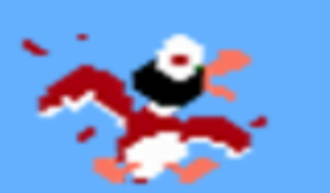
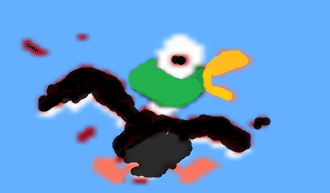
Added variation of birds with different images and penalties

Changed region(s): [[0.0909, 0.2487, 0.8182, 0.9326], [0.5152, 0.2798, 0.5758, 0.342], [0.0909, 0.2487, 0.1212, 0.2798]]

diff --git a/js/app.js b/js/app.js
@@ -58,6 +58,21 @@ const playBtn = document.querySelector(".play")
 const resultSpan = document.querySelector("#result")
 /*-------------- Functions -------------*/
 
+const getRandom = (items) => {
+    let total = items.reduce((sum, item) => {
+        return sum + item.weight
+    }, 0)
+
+    let roll = Math.random() * total;
+    for (const item of items) {
+        if (roll < item.weight) return item
+
+        roll -= item.weight
+    }
+}
+
+
+
 const renderTimer = () => {
     game.timer -= 1000;
     render();
@@ -67,6 +82,11 @@ const renderTimer = () => {
     }
 }
 const createBird = () => {
+    types = [
+        { name: "duck", flap1: "/assets/duckEnemy-1.png", flap2: "/assets/duckEnemy-2.png", weight: 70 },
+        { name: "crow", flap1: "/assets/crowChill-1.png", flap2: "/assets/crowChill-2.png", penalty: 2000, weight: 20 },
+        { name: "eagle", flap1: "/assets/eagleChill-1.png", flap2: "/assets/eagleChill-2.png", penalty: 10000, weight: 10 },
+    ]
     const bird = {
         x: game.element.clientWidth,
         y: Math.random() * (game.element.clientHeight - 90),
@@ -74,19 +94,22 @@ const createBird = () => {
         child: document.createElement('img'),
         speed: 2,
         state: 1,
+        type: getRandom(types),
         flap() {
             if (this.state === 1) {
                 this.state = 2
-                this.child.src = "/assets/duckEnemy-2.png"
+                this.child.src = this.type.flap1
             }
             else {
                 this.state = 1
-                this.child.src = "/assets/duckEnemy-1.png"
+                this.child.src = this.type.flap2
             }
         }
 
     }
-    bird.child.src = "/assets/duckEnemy-1.png"
+    bird.element.bird = bird
+    console.log(bird.type.name)
+    bird.child.src = bird.flap1
     bird.child.classList.add("bird")
 
     bird.element.classList.add("birdBox")
@@ -127,9 +150,17 @@ const shot = (e) => {
     const birdImg = birdBox.querySelector(".bird");
 
     birdImg.src = "/assets/duckEnemy-3.png";
+    const bird = birdBox.bird
+    if (bird.type.name !== "duck") {
+        const pen = bird.type.penalty
+        game.timer -= pen
+        timeSpan.textContent += ` - ${pen / 1000}s`
 
-    game.score++;
-    render()
+    }
+    else {
+        game.score++;
+    }
+    setTimeout(render, 500)
     if (game.score === game.targetScore) end()
     console.log(game.score);
 

diff --git a/css/style.css b/css/style.css
@@ -82,7 +82,9 @@ body {
 }
 
 .stats {
-    font-family: "Honk", sans-serif;
+    font-family: "Pixelify Sans", sans-serif;
+    color: white;
+    font-weight: 700;
     width: 100vw;
     height: 20vh;
     background: url("/assets/statBoard.png");
